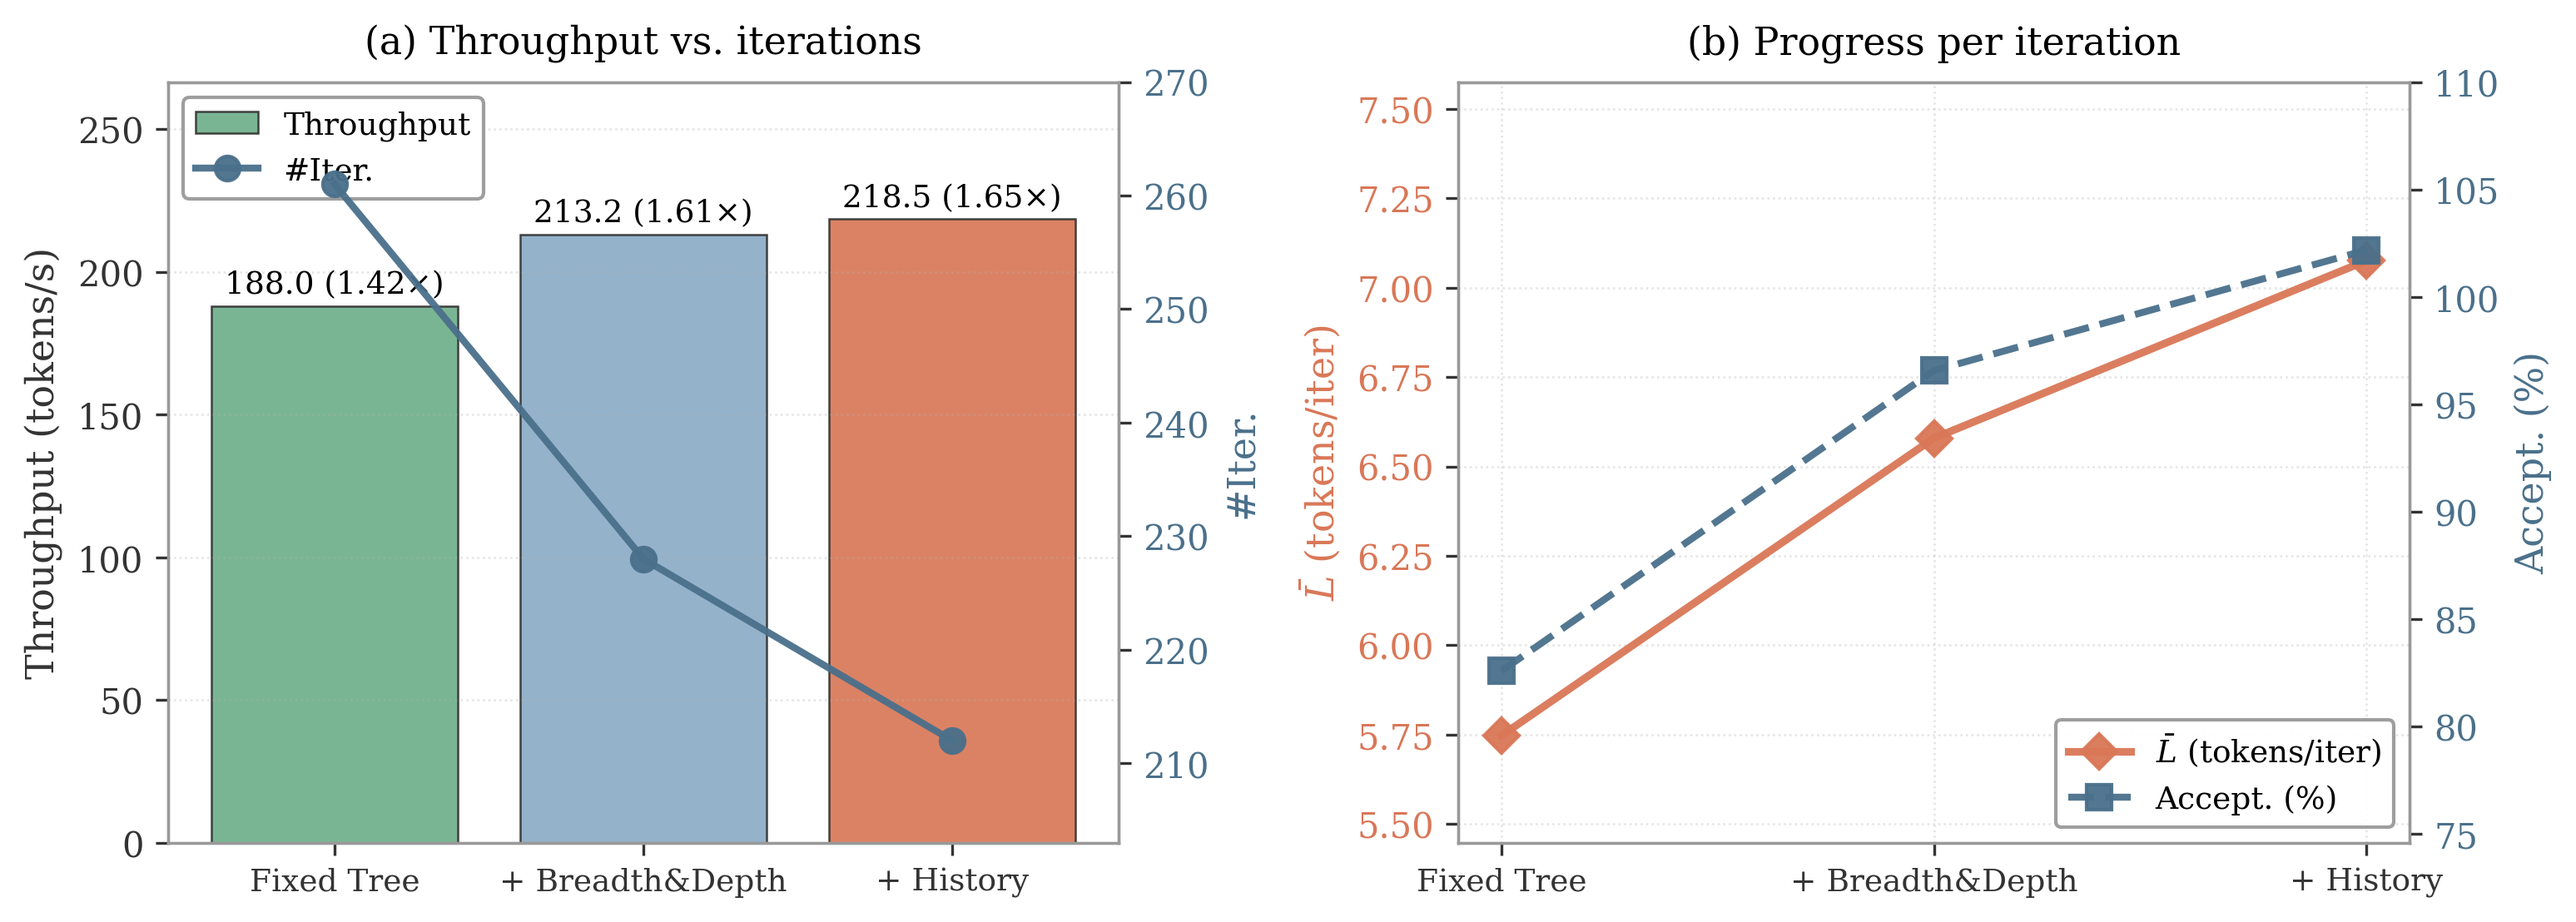
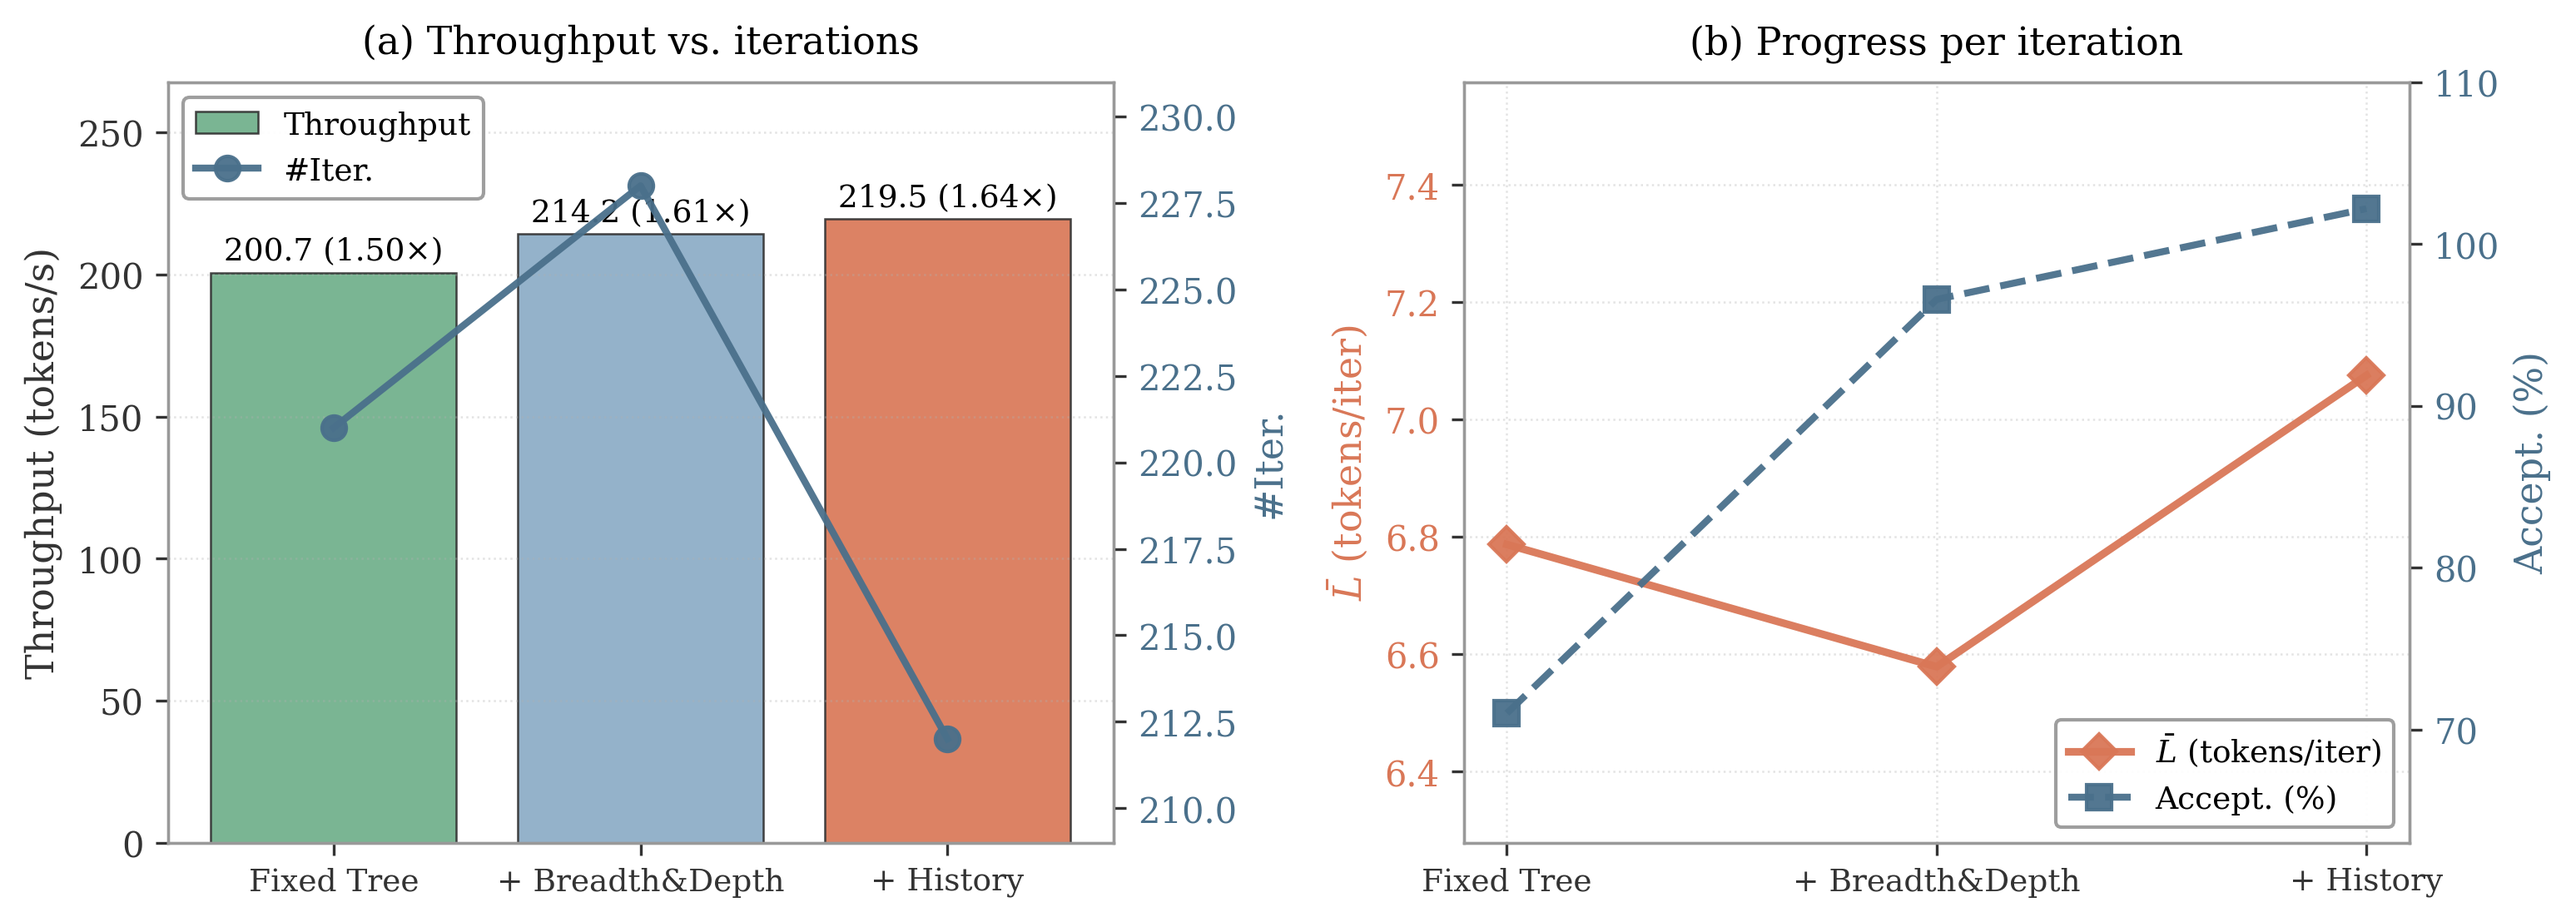
Update Fig4 ablation progression to D8B3

diff --git a/plot_ablation_progression.py b/plot_ablation_progression.py
@@ -28,12 +28,16 @@ plt.rcParams["font.size"] = 10
 
 
 def main() -> None:
-    src = Path("results/adaptive/main/paper_benchmark_main_1500tokens_2.json")
+    # D8B3 WikiText-2 main run (T=1500) used for the progressive ablation figure.
+    src = Path("results/adaptive/main_D8B3/1500_2/results.json")
     data = json.loads(src.read_text())
     m = {r["method"]: r for r in data["all_results"]}
 
     ar = m["Baseline (AR)"]
-    fixed = m["Fixed Tree (D=5, B=2)"]
+    fixed = m["Fixed Tree (D=8, B=3, τ=0.1)"]
+    # Phase naming is consistent across JSONs:
+    #   Phase 2: adds Dynamic Depth (with Dynamic Breadth already enabled)
+    #   Phase 3: adds History Adaptation (full DynaTree)
     phase2 = m["Phase 2: + Dynamic Depth"]  # corresponds to "+ Dynamic Breadth & Depth"
     phase3 = m["Phase 3: + History Adjust"]  # corresponds to "+ History Adaptation" (DynaTree)
 
